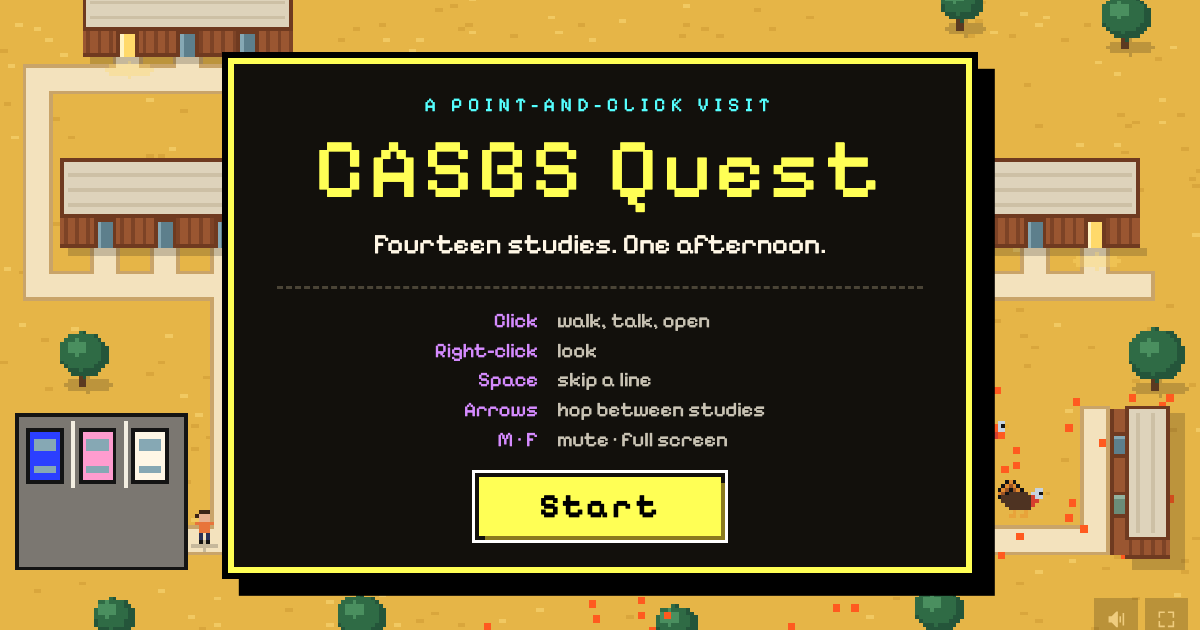
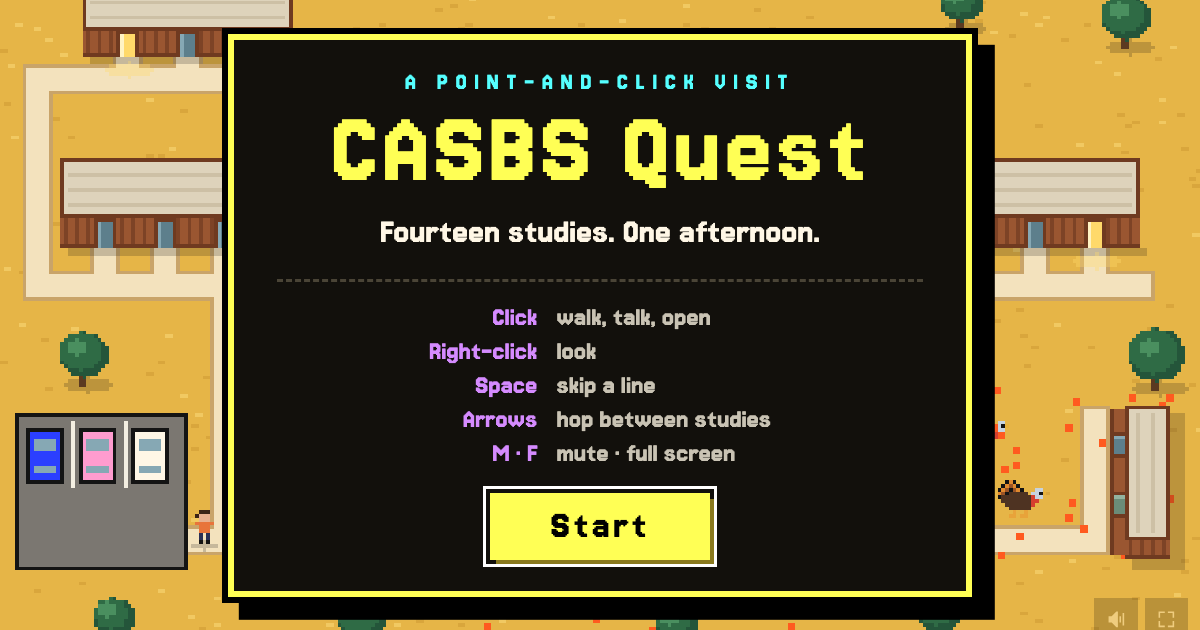
semibart: Jersey 15 everywhere: the C in CASBS reads as a C, dialog and the start card are clear at a glance, still pixel type
Claude-Session: https://claude.ai/code/session_012SXcnpNP5HBdEeoRGXmBGw

Changed region(s): [[0.185, 0.0302, 0.8325, 0.9952]]

diff --git a/public/semibart/index.html b/public/semibart/index.html
@@ -14,7 +14,7 @@
 <meta name="twitter:card" content="summary_large_image">
 <meta name="twitter:image" content="https://ola.cx/semibart/og.png">
 <title>CASBS Quest</title>
-<link href="https://fonts.googleapis.com/css2?family=Pixelify+Sans:wght@400;500;700&display=swap" rel="stylesheet">
+<link href="https://fonts.googleapis.com/css2?family=Jersey+15&display=swap" rel="stylesheet">
 <style>
 :root {
   --black: #000000;
@@ -22,7 +22,7 @@
   --cyan: #55ffff;
   --choice: #d58bff;
   --gold: #e6b547;
-  --font: 'Pixelify Sans', 'Courier New', monospace;
+  --font: 'Jersey 15', 'Courier New', monospace;
   /* layout: one full-bleed 320x180 pixel scene; text, labels and dialog choices float over it */
   color-scheme: dark;
 }
@@ -33,13 +33,13 @@ body { background: var(--black); container-type: size; display: flex; align-item
 #stage { position: relative; width: min(100cqw, calc(100cqh * 16 / 9)); aspect-ratio: 16 / 9; background: var(--black); overflow: hidden; container-type: inline-size; user-select: none; -webkit-user-select: none; }
 #cv { position: absolute; inset: 0; width: 100%; height: 100%; display: block; image-rendering: pixelated; image-rendering: crisp-edges; cursor: crosshair; touch-action: none; transform-origin: 73.75% 56.7%; }
 .outlined { text-shadow: 0.22cqw 0 0 #000, -0.22cqw 0 0 #000, 0 0.22cqw 0 #000, 0 -0.22cqw 0 #000, 0.22cqw 0.22cqw 0 #000, -0.22cqw 0.22cqw 0 #000, 0.22cqw -0.22cqw 0 #000, -0.22cqw -0.22cqw 0 #000, 0.15cqw 0.45cqw 0 rgba(0,0,0,0.55); }
-#line { position: absolute; width: 62%; text-align: center; font-size: 2.85cqw; line-height: 1.18; font-weight: 600; letter-spacing: 0.03em; word-spacing: 0.08em; transform: translateY(-100%); pointer-events: none; text-wrap: balance; }
-#label { position: absolute; color: var(--cyan); font-size: 1.9cqw; line-height: 1; pointer-events: none; white-space: nowrap; transform: translate(-50%, -160%); }
+#line { position: absolute; width: 62%; text-align: center; font-size: 3.5cqw; line-height: 1.08; font-weight: 400; letter-spacing: 0.02em; word-spacing: 0.06em; transform: translateY(-100%); pointer-events: none; text-wrap: balance; }
+#label { position: absolute; color: var(--cyan); font-size: 2.5cqw; line-height: 1; pointer-events: none; white-space: nowrap; transform: translate(-50%, -160%); }
 #label[hidden] { display: none; }
 #choices { position: absolute; left: 0; right: 0; bottom: 0; padding: 1.2cqw 3cqw 1.6cqw; background: rgba(0, 0, 0, 0.84); display: flex; flex-direction: column; }
 #choices[hidden] { display: none; }
 button { font: inherit; background: none; border: 0; margin: 0; cursor: pointer; line-height: 1.1; color: inherit; }
-.choice { color: var(--choice); font-size: 2.4cqw; padding: 0.25cqw 0; text-align: left; }
+.choice { color: var(--choice); font-size: 3cqw; padding: 0.25cqw 0; text-align: left; }
 .choice:hover, .choice:focus-visible { color: var(--hot); outline: none; }
 #tools { position: absolute; right: 1cqw; bottom: 1cqw; display: flex; gap: 0.6cqw; opacity: 0.35; transition: opacity 0.2s; }
 #tools:hover, #tools:focus-within { opacity: 1; }
@@ -61,14 +61,14 @@ button { font: inherit; background: none; border: 0; margin: 0; cursor: pointer;
 #title { position: absolute; inset: 0; display: grid; place-items: center; }
 #title[hidden] { display: none; }
 .card { width: 62cqw; background: #12100c; color: #fff7e6; border: 0.5cqw solid var(--hot); box-shadow: 0 0 0 0.5cqw #000, 1.4cqw 1.4cqw 0 0.5cqw #000; padding: 2.4cqw 3.6cqw 2.6cqw; text-align: center; }
-.card .eyebrow { margin: 0 0 1cqw; color: var(--cyan); font-size: 1.6cqw; letter-spacing: 0.3em; text-transform: uppercase; }
-.card h1 { margin: 0; color: var(--hot); font-size: 7cqw; line-height: 1; white-space: nowrap; font-weight: 400; letter-spacing: 0.06em; }
-.card .tag { margin: 1.4cqw 0 0; font-size: 2.3cqw; line-height: 1.2; }
+.card .eyebrow { margin: 0 0 0.6cqw; color: var(--cyan); font-size: 2.1cqw; letter-spacing: 0.3em; text-transform: uppercase; }
+.card h1 { margin: 0; color: var(--hot); font-size: 9cqw; line-height: 0.9; white-space: nowrap; font-weight: 400; letter-spacing: 0.03em; }
+.card .tag { margin: 1cqw 0 0; font-size: 3cqw; line-height: 1.2; }
 .card hr { border: 0; border-top: 0.3cqw dashed #4a4436; margin: 2cqw 0 1.8cqw; }
-.card dl { display: grid; grid-template-columns: auto auto; justify-content: center; gap: 0.6cqw 1.6cqw; margin: 0; font-size: 1.7cqw; line-height: 1.1; text-align: left; }
+.card dl { display: grid; grid-template-columns: auto auto; justify-content: center; gap: 0.3cqw 1.6cqw; margin: 0; font-size: 2.3cqw; line-height: 1.1; text-align: left; }
 .card dt { color: var(--choice); text-align: right; }
 .card dd { margin: 0; color: #c9c3b4; }
-#startBtn { margin-top: 2.2cqw; background: var(--hot); color: #000; font-size: 2.8cqw; font-weight: 700; padding: 0.9cqw 5cqw; box-shadow: 0.5cqw 0.5cqw 0 #8a7a1e; letter-spacing: 0.08em; }
+#startBtn { margin-top: 2cqw; background: var(--hot); color: #000; font-size: 3.4cqw; font-weight: 400; padding: 0.9cqw 5cqw; box-shadow: 0.5cqw 0.5cqw 0 #8a7a1e; letter-spacing: 0.08em; }
 #startBtn:hover { background: #fff; }
 #startBtn:focus-visible { outline: 0.3cqw solid #fff; outline-offset: 0.4cqw; }
 #startBtn:active { transform: translate(0.5cqw, 0.5cqw); box-shadow: none; }
